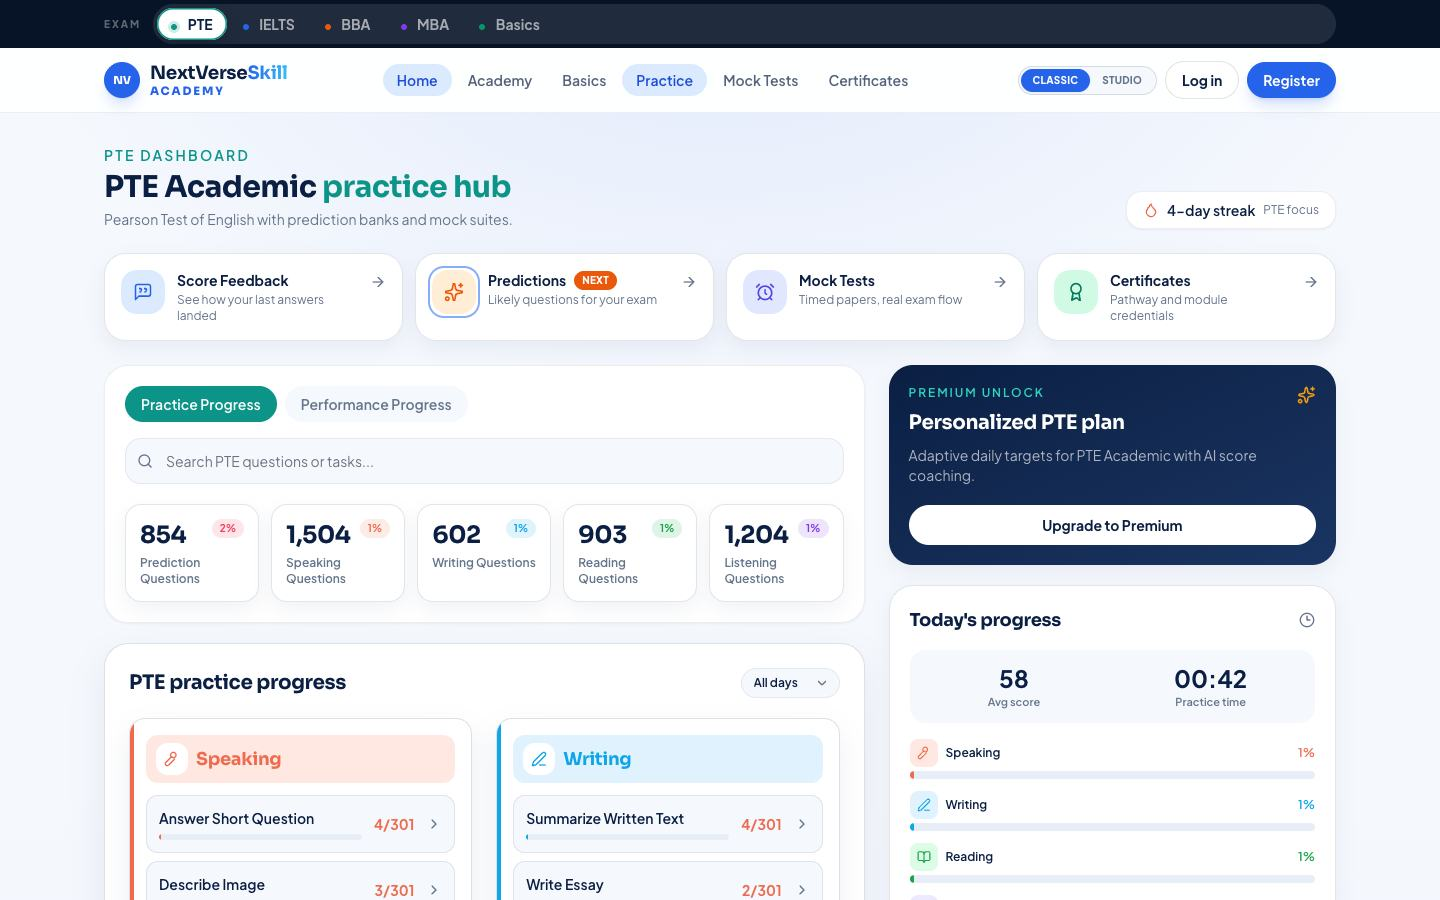
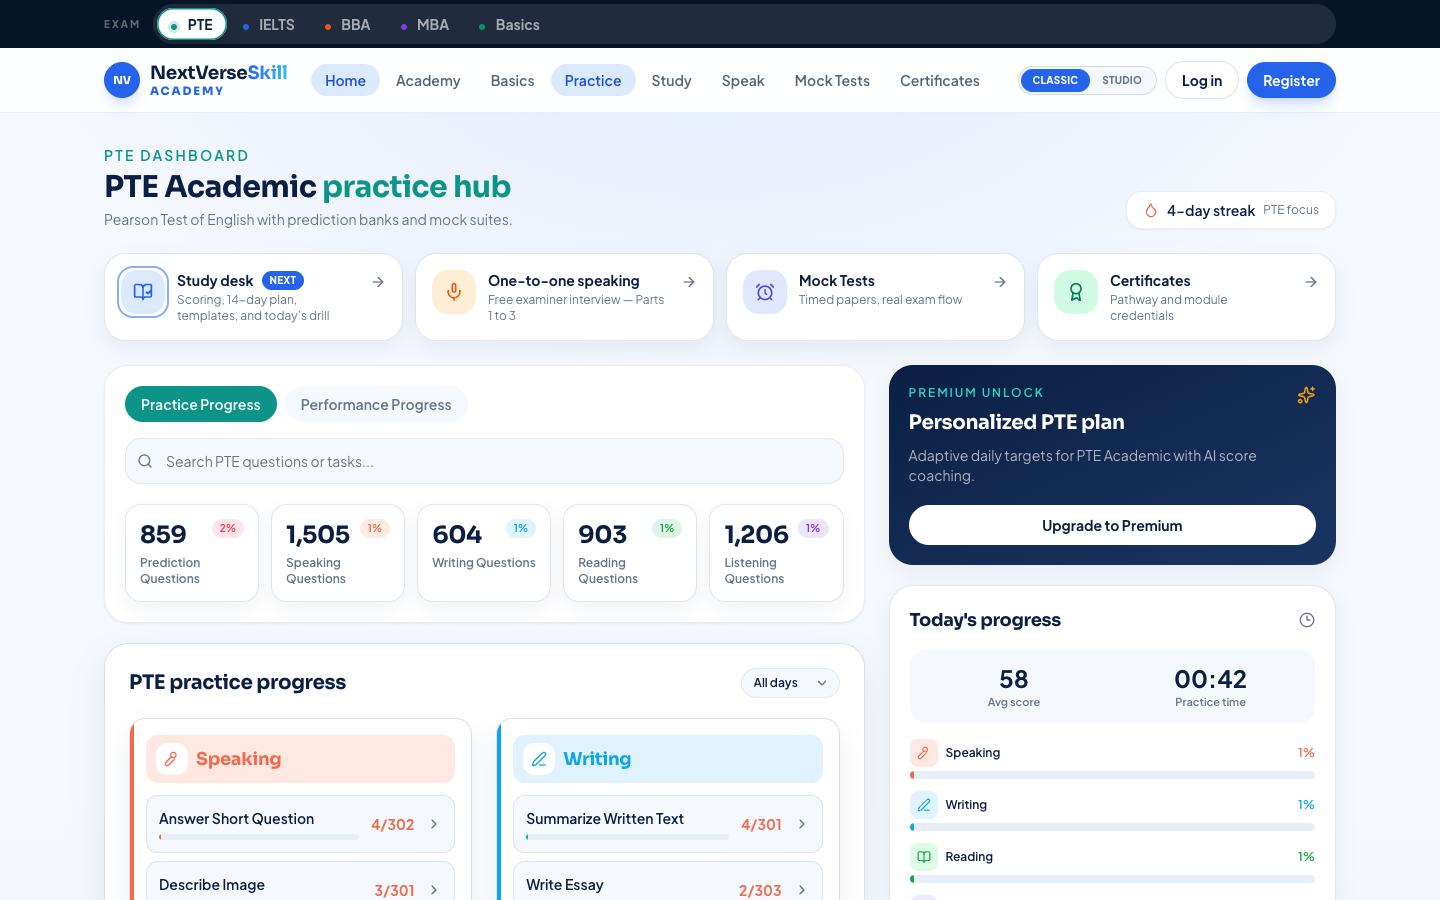
Update the README visual tour for Study, speaking, and admin add-content.
The map now covers the study desk, one-to-one interview, and how to add new exams or questions from Admin, with fresh screenshots.

diff --git a/README.md b/README.md
@@ -1,6 +1,6 @@
 # NextVerseSkill Exam Center
 
-A free practice academy for **IELTS, PTE, MBA, BBA, and English Basics**. Students can browse every exam and task type without an account. Login is required to open questions, submit answers, and save scores.
+A free practice academy for **IELTS, PTE, MBA, BBA, and English Basics**. Students can browse every exam and task type without an account. Login is required to open questions, submit answers, save scores, and run a speaking interview.
 
 **Live site:** [http://exam-center-w40t.onrender.com/](http://exam-center-w40t.onrender.com/)
 
@@ -13,11 +13,13 @@ This README is a visual map of the product. Skim the screenshots to see every ma
 | [Home](#1-home--marketing) | Landing page, course cards, level-check start |
 | [Academy](#2-academy--personal-plan) | Level check and personal study plan |
 | [Practice](#3-practice-dashboard--two-themes) | Studio / Classic themes, skill decks, locked questions |
-| [Mocks](#4-mock-tests) | IELTS reading paper and PTE full mock |
-| [English Basics](#5-english-basics) | Grammar path and topic drills |
-| [Certificates](#6-certificates) | Pathway, module, and mock credentials |
-| [Account](#7-login--profile) | Login modal and student profile |
-| [Admin CMS](#8-admin-cms) | Edit exams, questions, mocks, site copy, and media |
+| [Study desk](#4-study-desk) | Scoring, 14-day plan, templates, phrases, traps |
+| [Speaking](#5-one-to-one-speaking) | Free in-browser examiner interview (Parts 1–3) |
+| [Mocks](#6-mock-tests) | IELTS reading paper, PTE full mock, BBA/MBA aptitude |
+| [English Basics](#7-english-basics) | Grammar path and topic drills |
+| [Certificates](#8-certificates) | Pathway, module, and mock credentials |
+| [Account](#9-login--profile) | Login modal and student profile |
+| [Admin CMS](#10-admin-cms) | Add exams, question types, questions, mocks, and media |
 
 ---
 
@@ -65,9 +67,31 @@ After login, the actual question opens: prompt, timer or mic, submit, and score 
 
 ---
 
-## 4. Mock tests
+## 4. Study desk
 
-The mock library lists full and section mocks per exam.
+Each exam has a **Study** page (no login). Switch IELTS, PTE, BBA, or MBA in the header.
+
+Students get today’s timed drill, how scoring works, a 14-day plan, stealable templates and phrases, common traps, collocations, and (for BBA/MBA) a one-page formula sheet.
+
+Open `/study?exam=ielts` (or `pte`, `bba`, `mba`).
+
+![Study desk](docs/screenshots/25-study-desk.jpg)
+
+---
+
+## 5. One-to-one speaking
+
+A free in-browser examiner: warm-up questions, one cue card, then discussion. No paid API. Chrome or Edge with a headset works best; typing is the fallback.
+
+Login is required. Each **Start interview** shuffles a new set from 250+ Part 1 questions and 80+ cue cards. **Skip** jumps one question; **Restart** (or **New session** after the recap) starts over.
+
+![One-to-one speaking](docs/screenshots/26-speaking.jpg)
+
+---
+
+## 6. Mock tests
+
+The mock library lists full and section mocks per exam. BBA and MBA papers use real quant, verbal, logic, and critical-reasoning items.
 
 ![Mock test list](docs/screenshots/08-mock-tests.jpg)
 
@@ -81,7 +105,7 @@ PTE mocks start with a device check, then a timed speaking / writing / reading /
 
 ---
 
-## 5. English Basics
+## 7. English Basics
 
 A beginner path: short explanation, example sentences, then eight questions per topic.
 
@@ -91,7 +115,7 @@ A beginner path: short explanation, example sentences, then eight questions per 
 
 ---
 
-## 6. Certificates
+## 8. Certificates
 
 Pathway, module, and mock credentials for each exam. Earned, pending, and locked states are all visible.
 
@@ -101,9 +125,9 @@ Pathway, module, and mock credentials for each exam. Earned, pending, and locked
 
 ---
 
-## 7. Login & profile
+## 9. Login & profile
 
-Guests can browse types. Opening a question or submitting an answer opens this modal.
+Guests can browse types. Opening a question, starting a speaking interview, or submitting an answer opens this modal.
 
 ![Login modal](docs/screenshots/07-login-modal.jpg)
 
@@ -115,9 +139,11 @@ Demo student (local / seed): `student@nextverseskill.test` / `password`
 
 ---
 
-## 8. Admin CMS
+## 10. Admin CMS
 
-Everything the public site shows is edited here: exams, homepage courses, skills, practice tasks, questions, mocks, certificates, PTE bank, diagnostics, reading papers, site copy, and media.
+Add new exams (TOEFL, GRE, or your own), homepage course cards, question types, practice questions, and mocks from here. Do it in order: **exam → task type → questions**.
+
+The overview screen has an **Add prep content** strip with those steps. Pick a skill on a new task (speaking, writing, reading, listening) so the player knows how students should answer.
 
 ![Admin login](docs/screenshots/18-admin-login.jpg)
 
@@ -133,7 +159,7 @@ Everything the public site shows is edited here: exams, homepage courses, skills
 
 ![Mock tests](docs/screenshots/24-admin-mocks.jpg)
 
-Admin URL: `/admin/login`. Password comes from `ADMIN_PASSWORD` in `.env` (see `.env.example`).
+Admin URL: `/admin/login`. Password comes from `ADMIN_PASSWORD` in `.env` (see `.env.example`). Default in seed/docs: `nextverse`.
 
 ---
 
@@ -141,12 +167,13 @@ Admin URL: `/admin/login`. Password comes from `ADMIN_PASSWORD` in `.env` (see `
 
 | Action | Guest | Logged in |
 | --- | --- | --- |
-| Home, Academy, dashboard, mock list, certificates | Yes | Yes |
+| Home, Academy, dashboard, Study desk, mock list, certificates | Yes | Yes |
 | Browse question **types** (Read Aloud, Essay, …) | Yes | Yes |
 | See question titles and open a question | No — login modal | Yes |
+| One-to-one speaking interview | No — login | Yes |
 | Submit an answer / save a score | No | Yes |
 | Finish Academy plan | No | Yes |
-| Admin CMS | No | Admin password |
+| Add exams, tasks, questions in Admin | No | Admin password |
 
 ---
 
@@ -164,6 +191,15 @@ php artisan serve
 Then open `http://127.0.0.1:8000`.
 
 Switch themes with the header control, or add `?theme=studio` / `?theme=classic` to any URL.
+
+Useful paths:
+
+| Path | What |
+| --- | --- |
+| `/study?exam=ielts` | Study desk |
+| `/speaking/one-to-one?exam=ielts` | One-to-one speaking |
+| `/dashboard?exam=pte` | Practice hub |
+| `/admin/login` | CMS |
 
 ## Refresh these screenshots
 
